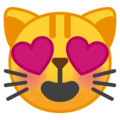
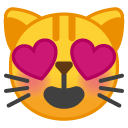
Add missing '.' and take u1f63b png directly from noto-emoji repo (https://github.com/googlei18n/noto-emoji.git).

diff --git a/_standards/mg0001/mg0001.md b/_standards/mg0001/mg0001.md
@@ -190,7 +190,7 @@ Hearts can only increase positive emotions.  Hearts never decrease or downgrade 
     <td>{% include emoji.html name="u1f63b" %}</td>
     <td>
       Smiling Cat Face With Heart-Eyes<br>
-      Accepted: Usages of Smiling Face With Heart-Eyes where a cat face better represents the sender
+      Accepted: Usages of Smiling Face With Heart-Eyes where a cat face better represents the sender.
     </td>
   </tr>
 </table>
